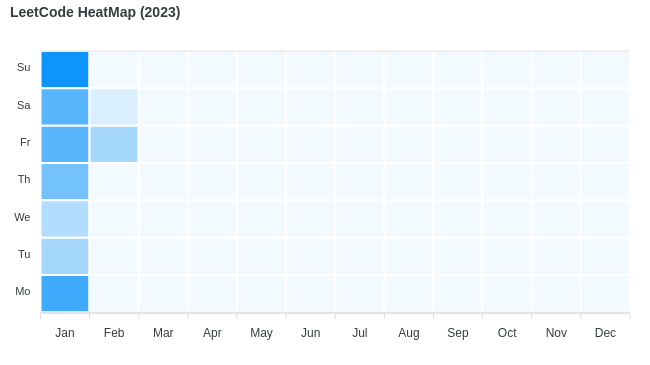
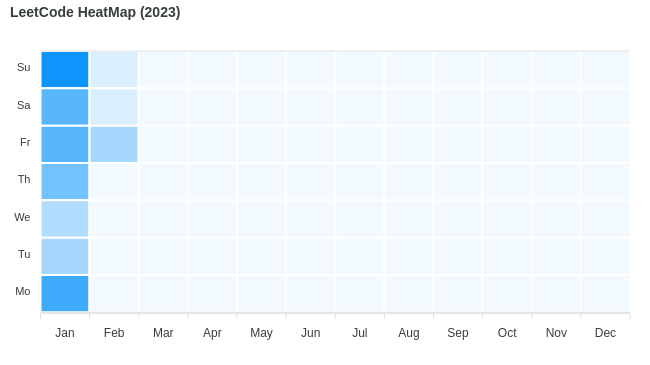
update heatmap.png

Changed region(s): [[0.1231, 0.1205, 0.2154, 0.2411]]

diff --git a/README.md b/README.md
@@ -4,7 +4,7 @@
 
 Collection of LeetCode questions to ace the coding interview! - Created using [LeetHub](https://github.com/QasimWani/LeetHub)
 
-> Questions solved 275 uniq: 109
+> Questions solved 277 uniq: 109
 
 ## Contribution 
 
